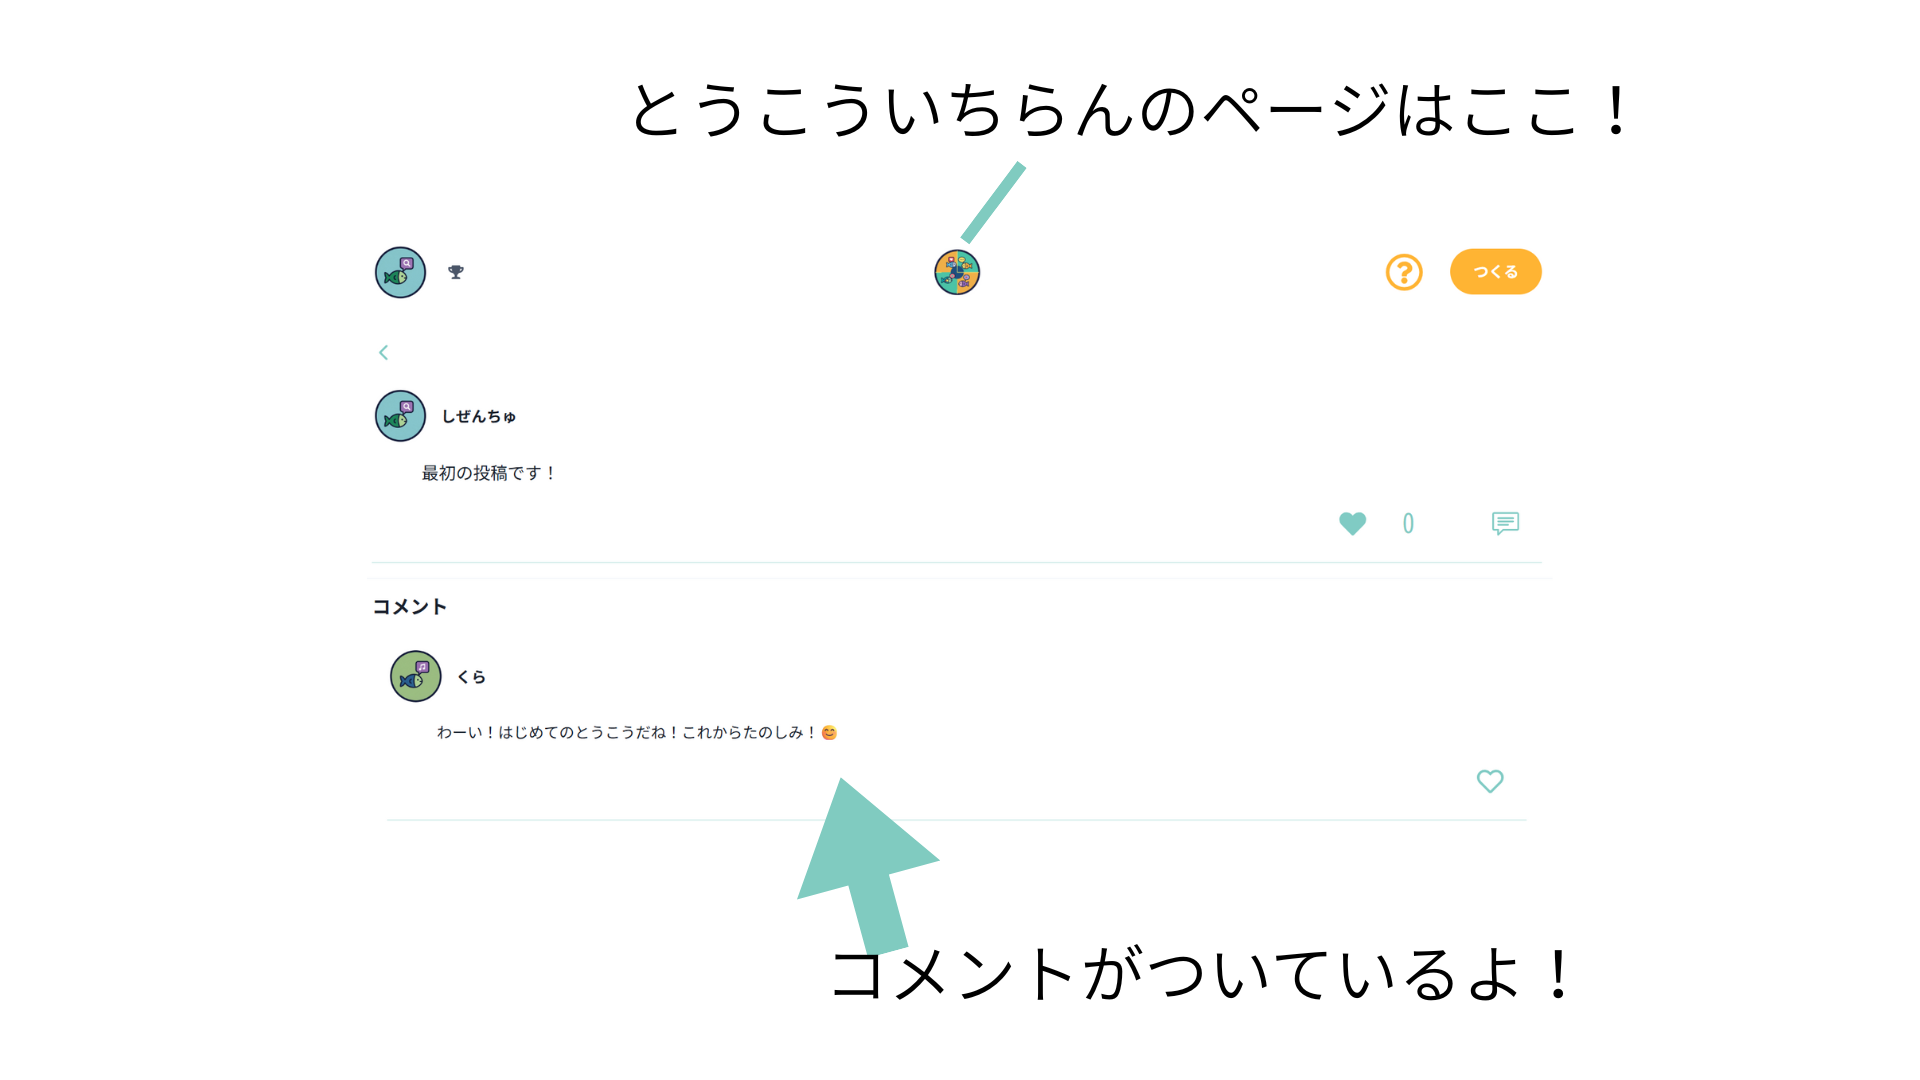
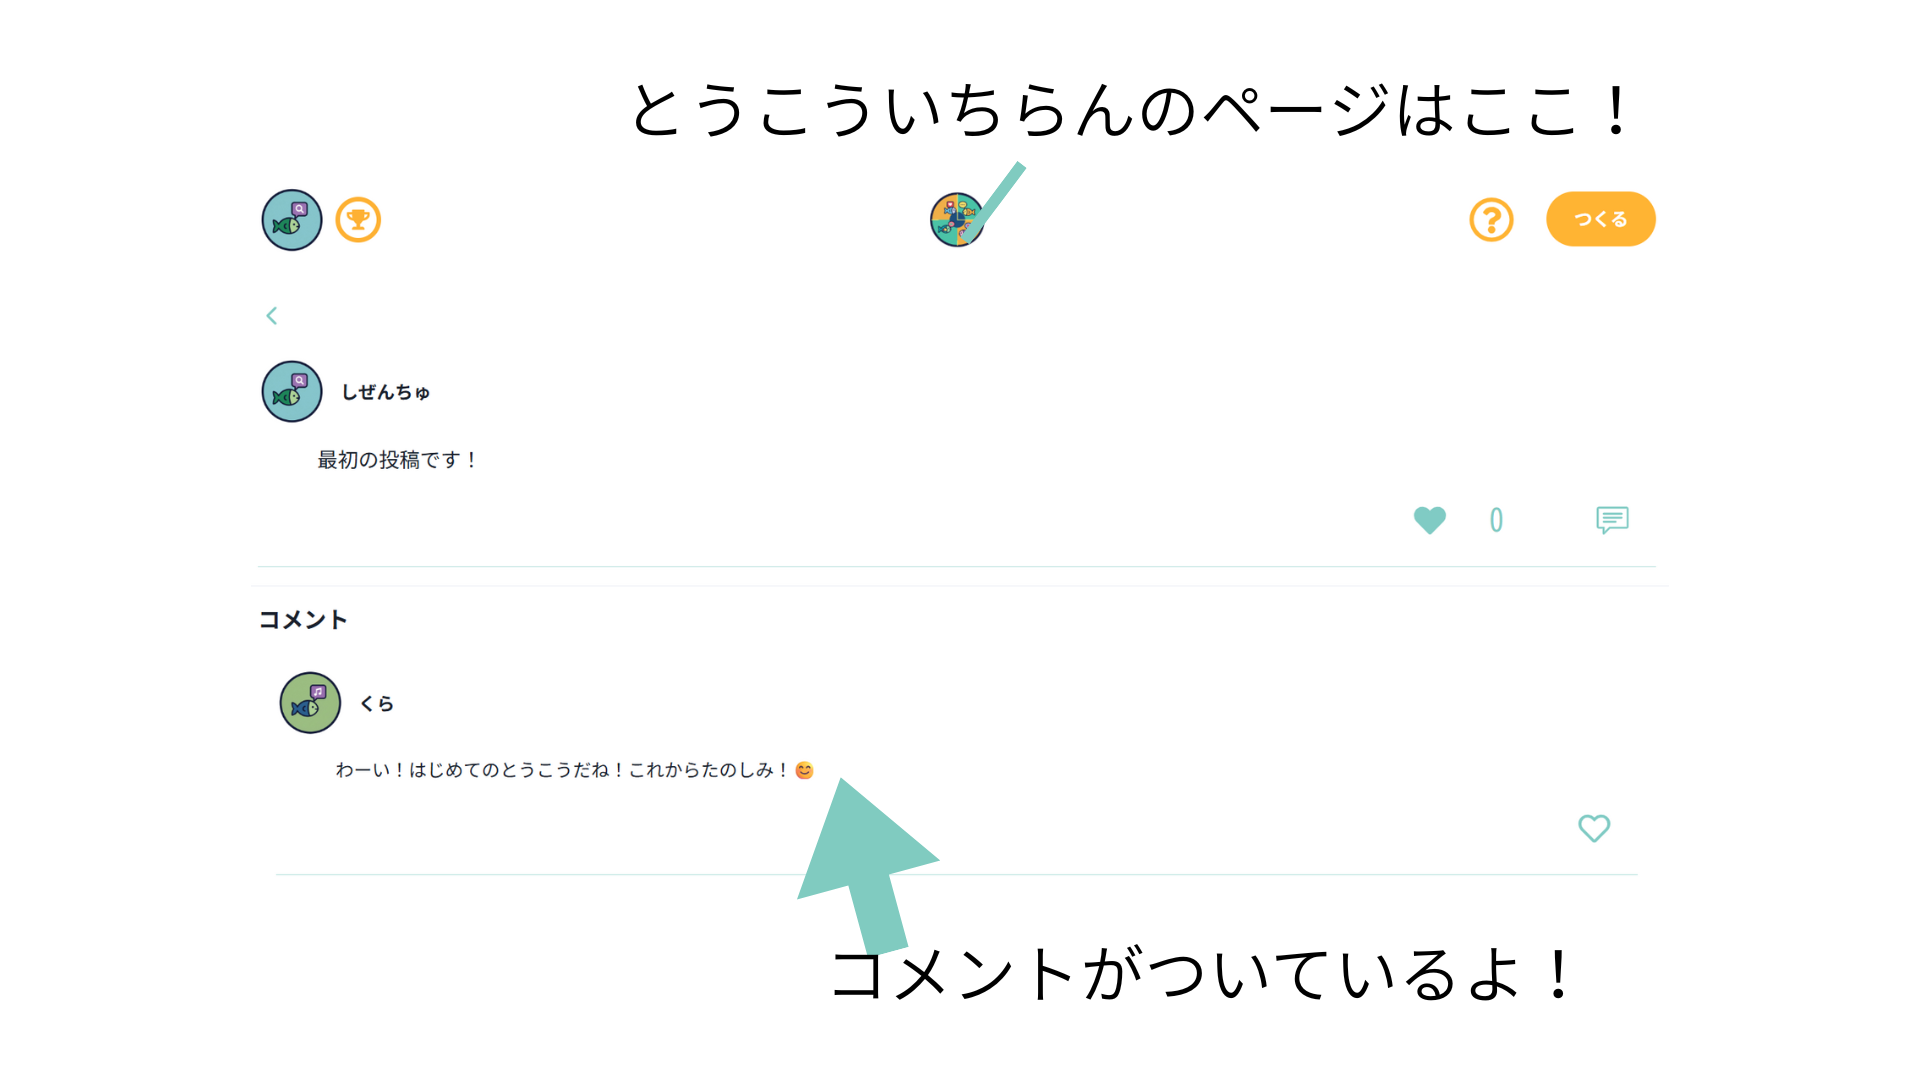
スライド7の画像を追加し、スライドショーに組み込みました

diff --git a/frontend/src/components/Tutorial.jsx b/frontend/src/components/Tutorial.jsx
@@ -17,10 +17,11 @@ import slide3 from "../assets/slide3.png";
 import slide4 from "../assets/slide4.png";
 import slide5 from "../assets/slide5.png";
 import slide6 from "../assets/slide6.png";
+import slide7 from "../assets/slide7.png";
 
 import { IoIosArrowBack, IoIosArrowForward } from "react-icons/io";
 
-const images = [slide1, slide2, slide3, slide4, slide5, slide6];
+const images = [slide1, slide2, slide3, slide4, slide5, slide6, slide7];
 
 export default function SlideModal({ isOpen, onClose }) {
   const [index, setIndex] = useState(0);
